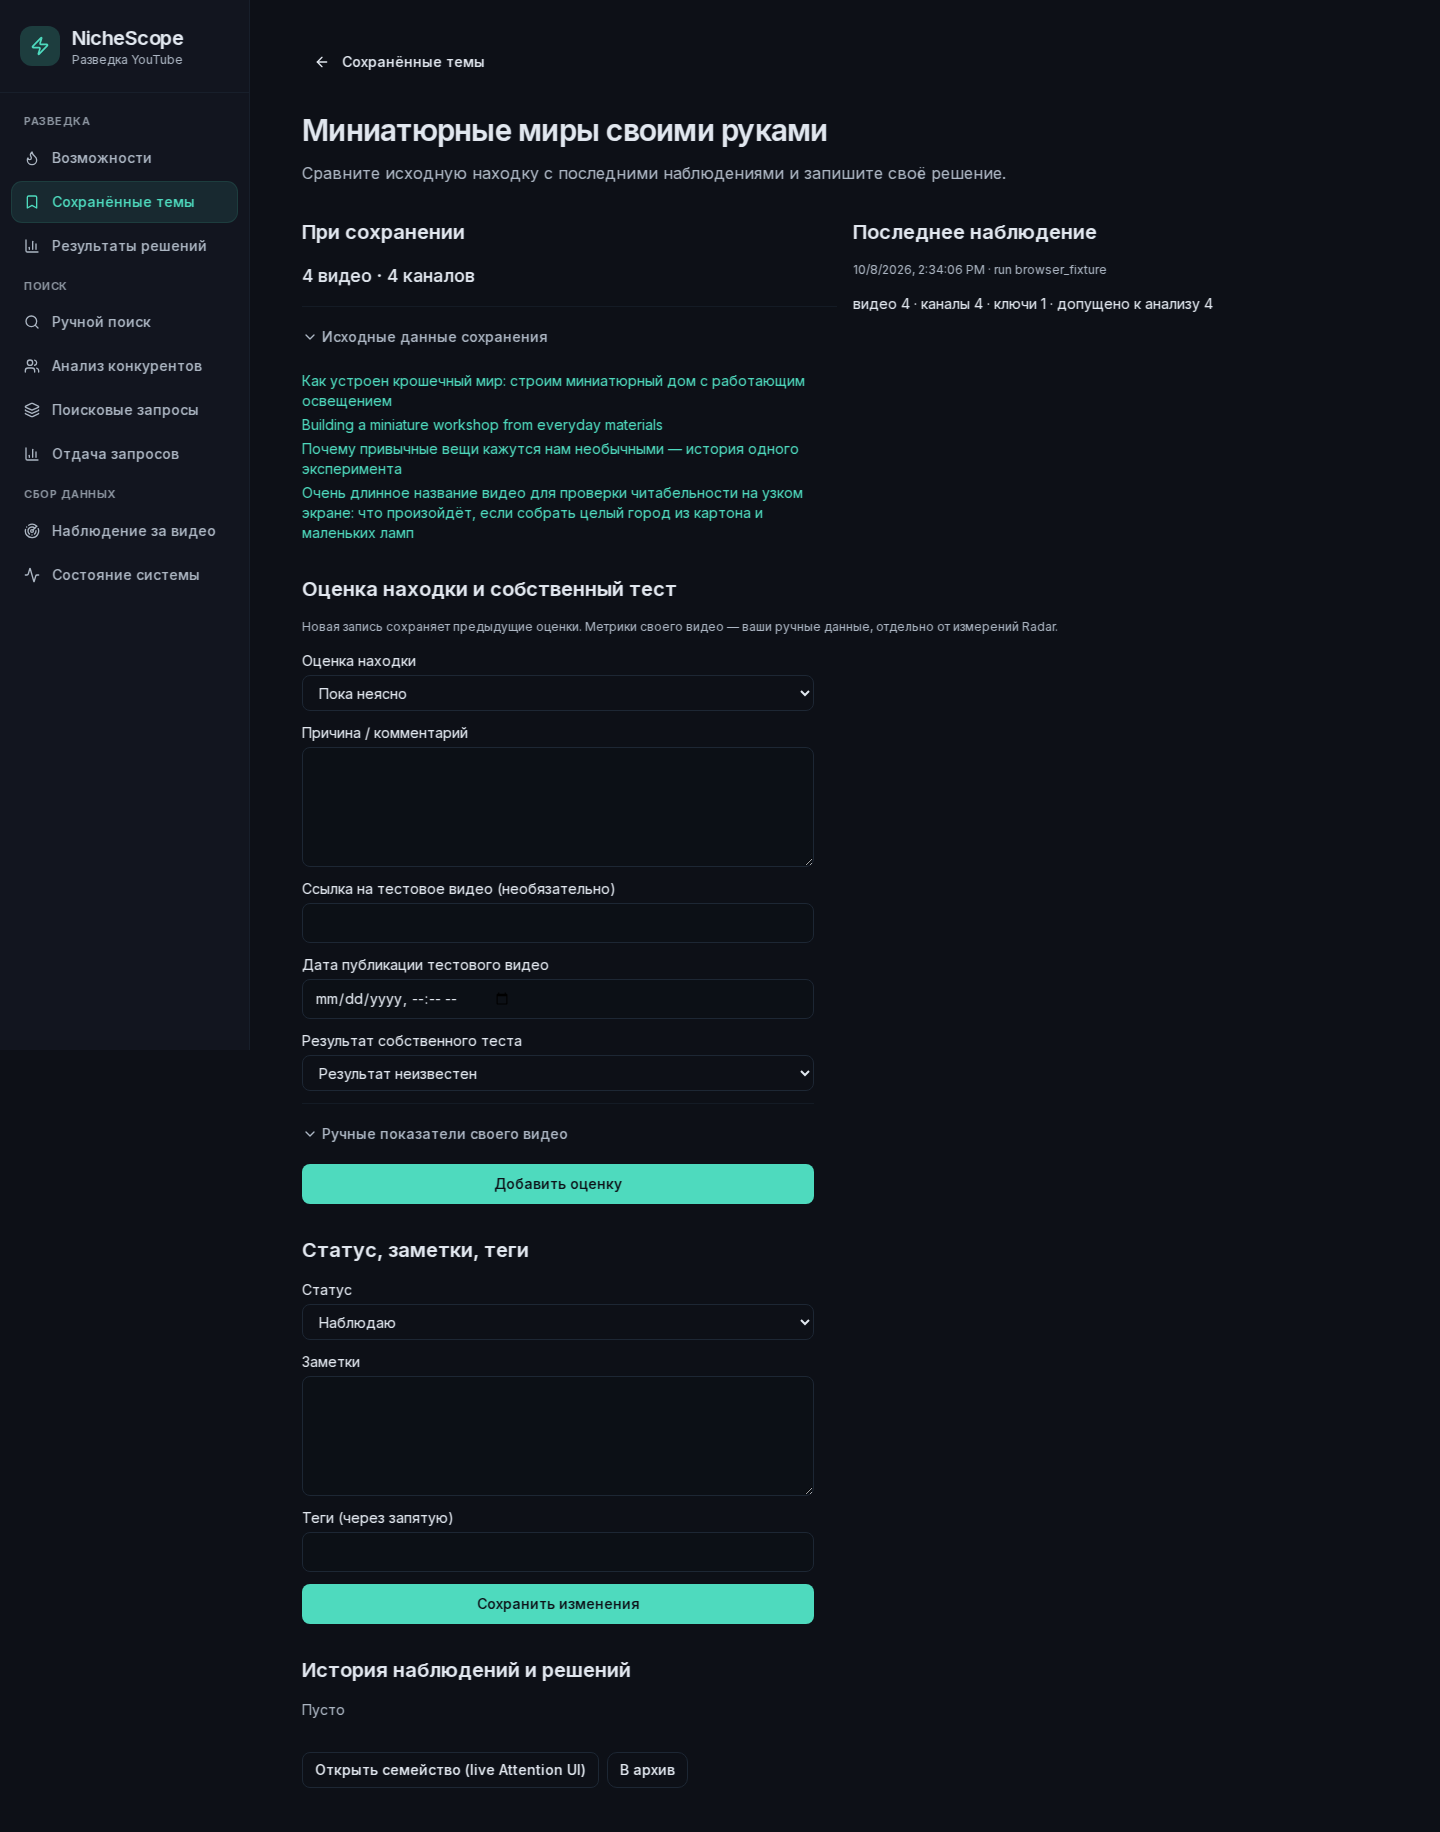
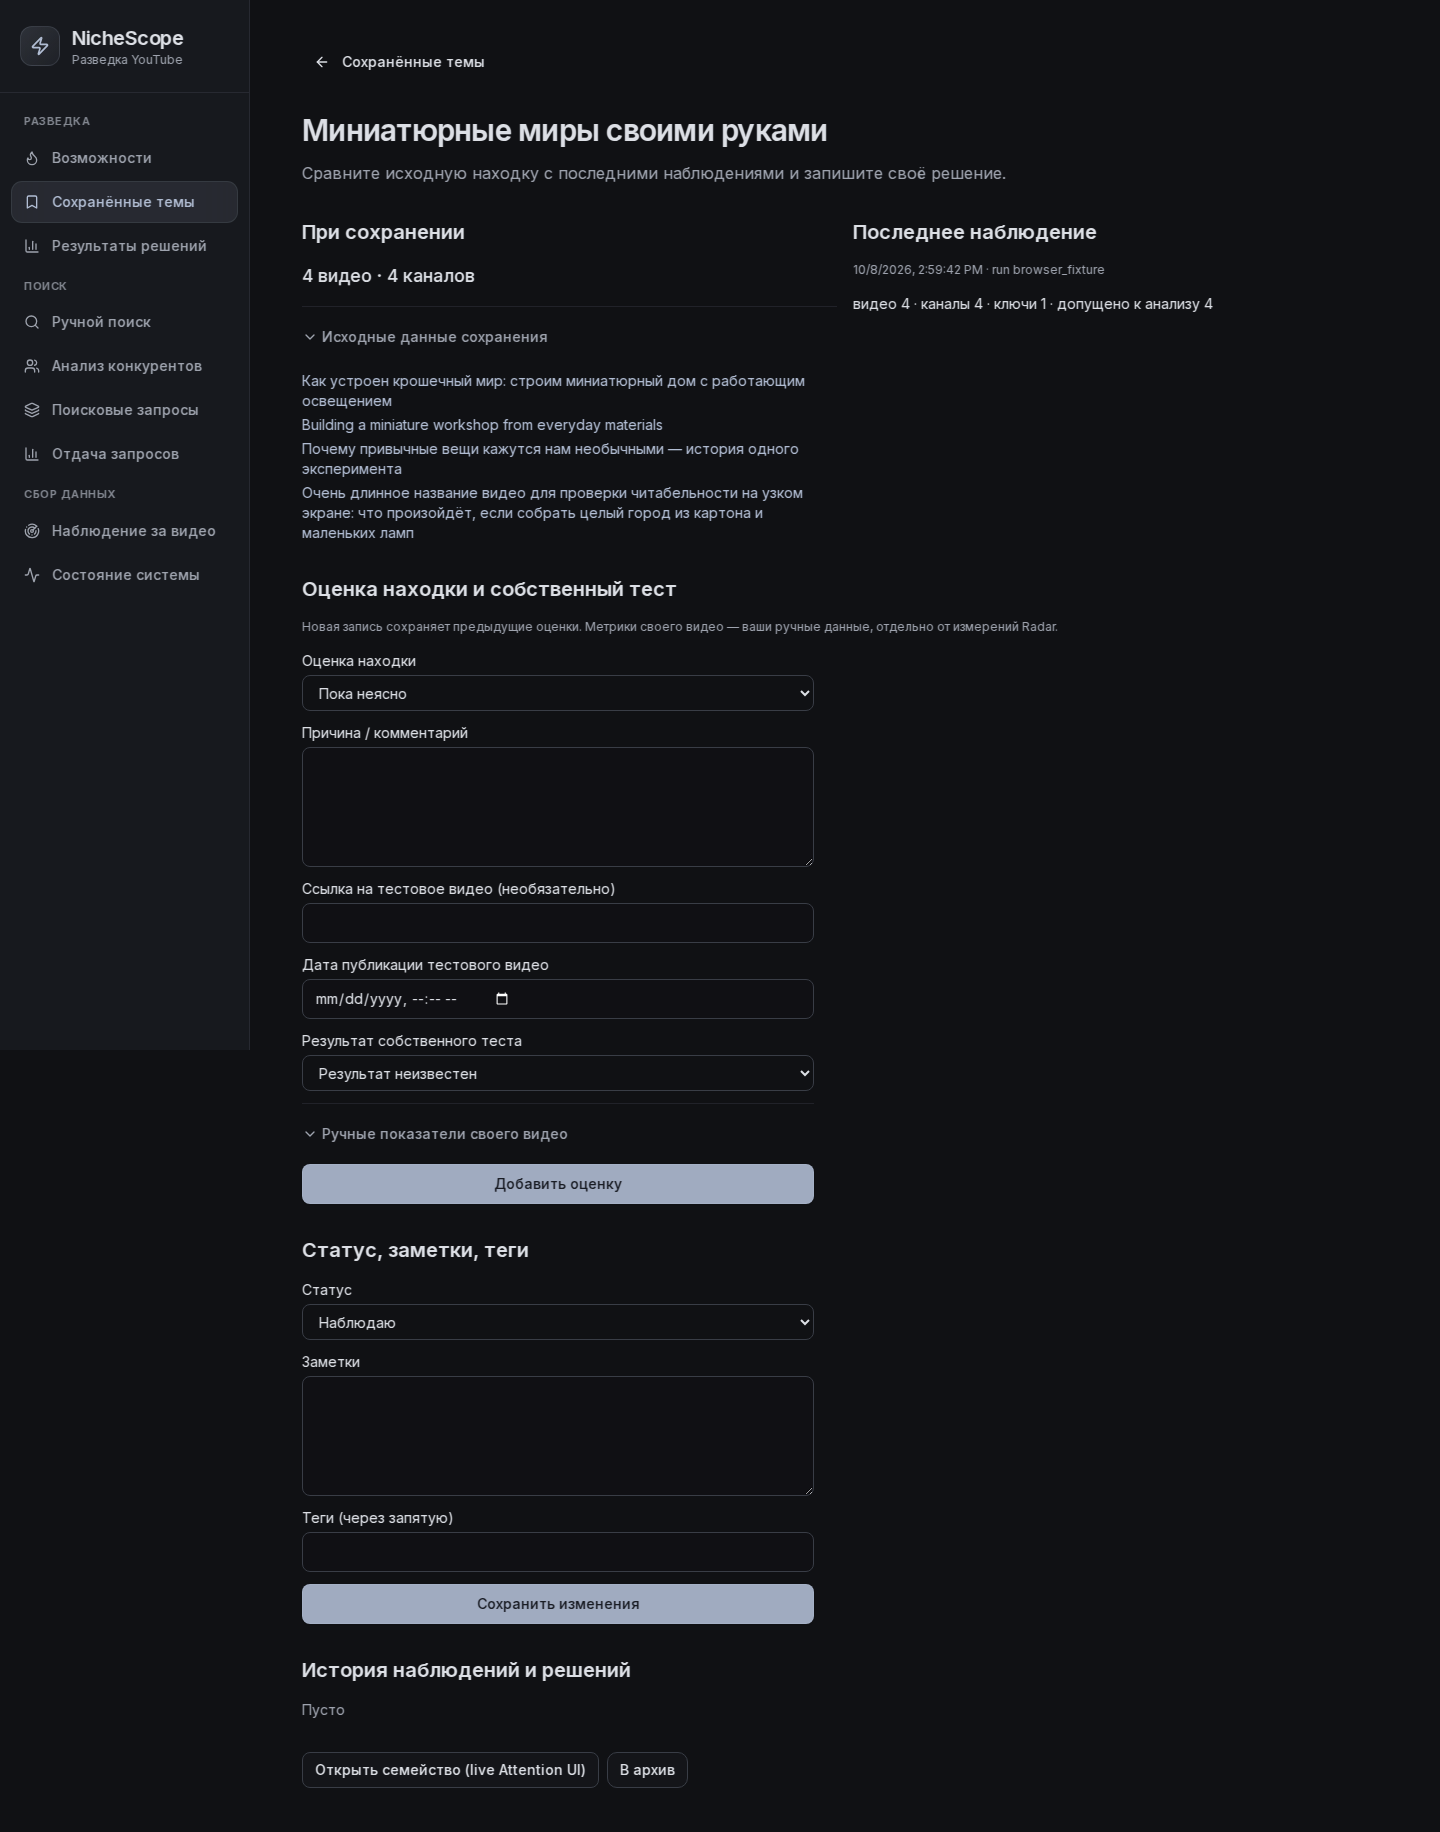
Refine Radar with muted graphite and silver palette

diff --git a/frontend/src/app/globals.css b/frontend/src/app/globals.css
@@ -4,51 +4,51 @@
 
 @layer base {
   :root {
-    --background: 222 28% 7%;
-    --foreground: 213 31% 91%;
-    --card: 222 24% 10%;
-    --card-foreground: 213 31% 91%;
-    --primary: 168 65% 58%;
-    --primary-foreground: 222 28% 7%;
-    --secondary: 215 28% 17%;
-    --secondary-foreground: 210 40% 98%;
-    --muted: 215 28% 12%;
-    --muted-foreground: 215 16% 72%;
-    --accent: 215 28% 17%;
-    --accent-foreground: 210 40% 98%;
-    --destructive: 0 62% 50%;
+    --background: 225 12% 7%;
+    --foreground: 220 14% 88%;
+    --card: 225 11% 11%;
+    --card-foreground: 220 14% 88%;
+    --primary: 218 28% 76%;
+    --primary-foreground: 225 18% 12%;
+    --secondary: 225 10% 17%;
+    --secondary-foreground: 220 14% 88%;
+    --muted: 225 10% 13%;
+    --muted-foreground: 220 9% 65%;
+    --accent: 225 11% 19%;
+    --accent-foreground: 220 14% 92%;
+    --destructive: 0 38% 47%;
     --destructive-foreground: 210 40% 98%;
-    --border: 215 28% 16%;
-    --input: 215 28% 16%;
-    --ring: 168 65% 58%;
+    --border: 225 10% 22%;
+    --input: 225 10% 25%;
+    --ring: 218 28% 76%;
     --radius: 0.625rem;
 
     /* Surfaces (design system 1.21B) */
-    --surface-raised: 222 23% 11%;
-    --surface-sunken: 215 28% 10%;
+    --surface-raised: 225 10% 14%;
+    --surface-sunken: 225 12% 8%;
 
     /* Semantic status — system / worker */
-    --status-ok: 152 45% 42%;
-    --status-warn: 38 70% 48%;
-    --status-error: 0 62% 52%;
+    --status-ok: 155 24% 63%;
+    --status-warn: 38 40% 65%;
+    --status-error: 0 40% 66%;
     --status-unknown: 217 10% 55%;
 
     /* Lifecycle */
-    --lifecycle-probation: 215 50% 52%;
-    --lifecycle-active: 152 40% 45%;
+    --lifecycle-probation: 218 28% 70%;
+    --lifecycle-active: 155 24% 63%;
     --lifecycle-weak: 38 55% 50%;
     --lifecycle-archived: 217 10% 50%;
 
     /* Evidence */
     --evidence-insufficient: 217 10% 55%;
     --evidence-early: 38 55% 50%;
-    --evidence-established: 152 40% 45%;
+    --evidence-established: 155 24% 63%;
 
     /* Checkpoint */
     --checkpoint-due: 38 70% 48%;
     --checkpoint-overdue: 0 62% 52%;
     --checkpoint-pending: 217 15% 58%;
-    --checkpoint-done: 152 35% 42%;
+    --checkpoint-done: 155 24% 63%;
   }
 
   * {
@@ -61,6 +61,9 @@
       "rlig" 1,
       "calt" 1;
     -webkit-tap-highlight-color: transparent;
+    color-scheme: dark;
+    background-image: radial-gradient(ellipse at 75% 0%, hsl(220 25% 30% / 0.13), transparent 55%);
+    background-attachment: fixed;
   }
 
   html {
@@ -70,11 +73,13 @@
 
 @layer utilities {
   .glass-panel {
-    @apply border border-border/60 bg-card/80 backdrop-blur-xl;
+    @apply border border-border/60 bg-card/80;
+    background-image: linear-gradient(145deg, hsl(220 15% 90% / 0.025), transparent 55%);
+    box-shadow: inset 0 1px 0 hsl(220 15% 90% / 0.035), 0 8px 28px hsl(225 15% 2% / 0.16);
   }
 
   .gradient-text {
-    @apply bg-gradient-to-r from-violet-400 to-fuchsia-400 bg-clip-text text-transparent;
+    @apply bg-gradient-to-r from-slate-200 to-slate-400 bg-clip-text text-transparent;
   }
 }
 

diff --git a/frontend/src/components/ui/badge.tsx b/frontend/src/components/ui/badge.tsx
@@ -7,12 +7,12 @@ const badgeVariants = cva(
   {
     variants: {
       variant: {
-        default: "border-transparent bg-primary text-primary-foreground",
+        default: "border-primary/20 bg-primary/10 text-primary",
         secondary: "border-transparent bg-secondary text-secondary-foreground",
         outline: "text-foreground",
-        success: "border-transparent bg-emerald-500/20 text-emerald-300",
-        warning: "border-transparent bg-amber-500/20 text-amber-300",
-        danger: "border-transparent bg-rose-500/20 text-rose-300",
+        success: "border-status-ok/20 bg-status-ok/10 text-status-ok",
+        warning: "border-status-warn/20 bg-status-warn/10 text-status-warn",
+        danger: "border-status-error/20 bg-status-error/10 text-status-error",
       },
     },
     defaultVariants: {

diff --git a/frontend/src/components/ui/button.tsx b/frontend/src/components/ui/button.tsx
@@ -7,11 +7,11 @@ const buttonVariants = cva(
   {
     variants: {
       variant: {
-        default: "bg-primary text-primary-foreground hover:bg-primary/90",
+        default: "border border-primary/30 bg-primary/90 text-primary-foreground shadow-sm hover:bg-primary",
         secondary:
           "bg-secondary text-secondary-foreground hover:bg-secondary/80",
         outline:
-          "border border-input bg-transparent hover:bg-accent hover:text-accent-foreground",
+          "border border-input bg-card/50 hover:bg-accent hover:text-accent-foreground",
         ghost: "hover:bg-accent hover:text-accent-foreground",
         destructive:
           "bg-destructive text-destructive-foreground hover:bg-destructive/90",

diff --git a/frontend/src/components/opportunities/signal-badges.tsx b/frontend/src/components/opportunities/signal-badges.tsx
@@ -53,7 +53,7 @@ export function AttentionSignalBadges({
     items.push({
       key: "72h",
       label: "Рост через 72 ч",
-      className: "border-emerald-400/40 text-emerald-200",
+      className: "border-status-ok/25 text-status-ok",
     });
   }
   if (flags.smallChannel) {
@@ -67,7 +67,7 @@ export function AttentionSignalBadges({
     items.push({
       key: "rel",
       label: "Сильнее нормы канала",
-      className: "border-violet-400/40 text-violet-200",
+      className: "border-primary/25 text-primary",
     });
   }
   if (items.length === 0) {

diff --git a/frontend/src/components/layout/sidebar.tsx b/frontend/src/components/layout/sidebar.tsx
@@ -100,7 +100,7 @@ export function Sidebar() {
   const NavContent = () => (
     <>
       <div className="flex items-center gap-3 border-b border-border/60 px-5 py-6">
-        <div className="flex h-10 w-10 items-center justify-center rounded-xl bg-primary/20">
+        <div className="flex h-10 w-10 items-center justify-center rounded-xl border border-primary/15 bg-gradient-to-br from-primary/15 to-primary/5">
           <Zap className="h-5 w-5 text-primary" />
         </div>
 

diff --git a/frontend/src/components/opportunities/opportunities-dashboard.tsx b/frontend/src/components/opportunities/opportunities-dashboard.tsx
@@ -234,7 +234,7 @@ export function OpportunitiesDashboard() {
             className={cn(
               "rounded-2xl border p-3 sm:p-5 text-left transition-colors",
               section === key
-                ? "border-primary/50 bg-primary/10"
+                ? "border-primary/30 bg-gradient-to-br from-primary/10 to-card shadow-sm"
                 : "border-border bg-card hover:border-primary/30",
             )}
           >
